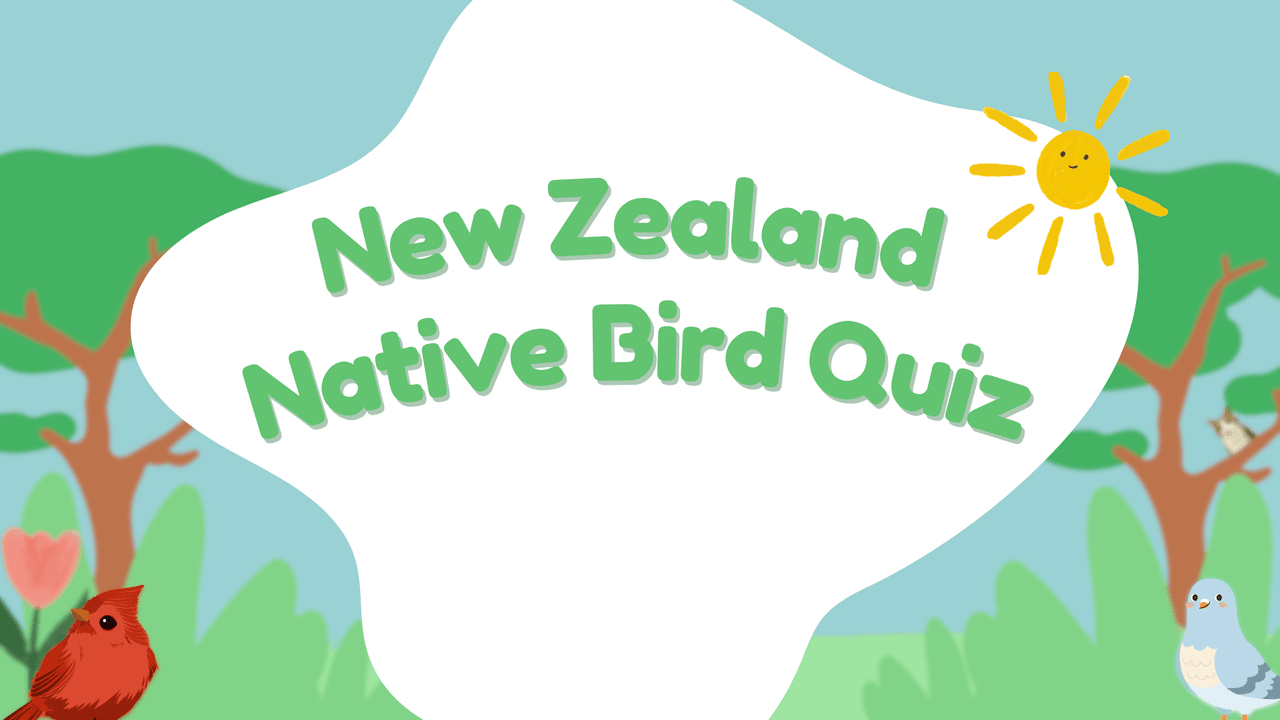
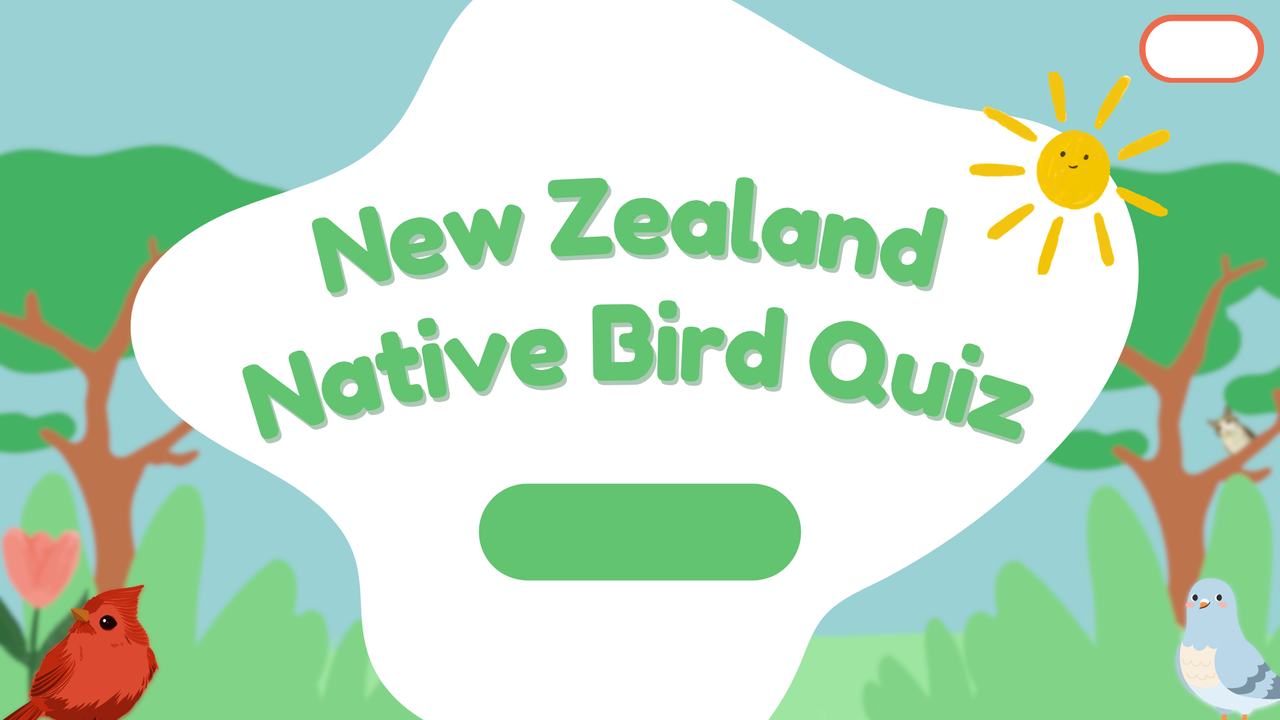
Test

Changed region(s): [[0.375, 0.6722, 0.625, 0.825], [0.875, 0.0, 1.0, 0.1222]]

diff --git a/main.py b/main.py
@@ -19,8 +19,9 @@ canvas1.create_image(0, 0, image=bg, anchor="nw")
 
 # Adding buttons
 button1=Button(root, text="Let's Start")
+button2=Button(root, text="Exit", borderwidth=0, highlightthickness=0)
 
-# Display Buttons
+# Display "Let's Start" Button
 button1_canvas=canvas1.create_window(
     100,
     10,
@@ -28,8 +29,19 @@ button1_canvas=canvas1.create_window(
     window=button1
 )
 
-button1.place(x=464.3, y=57)
+button1.place(x=510, y=560, anchor="sw")
 
-button1.config(width=16, height=2)
+button1.config(width=32, height=4)
+
+# Display "Exit" Button
+button2_canvas=canvas1.create_window(
+    100,
+    10,
+    anchor="nw",
+    window=button2
+)
+
+button2.place(x=1147, y=75, anchor="sw")
+button2.config(width=15, height=3)
 
 root.mainloop()
